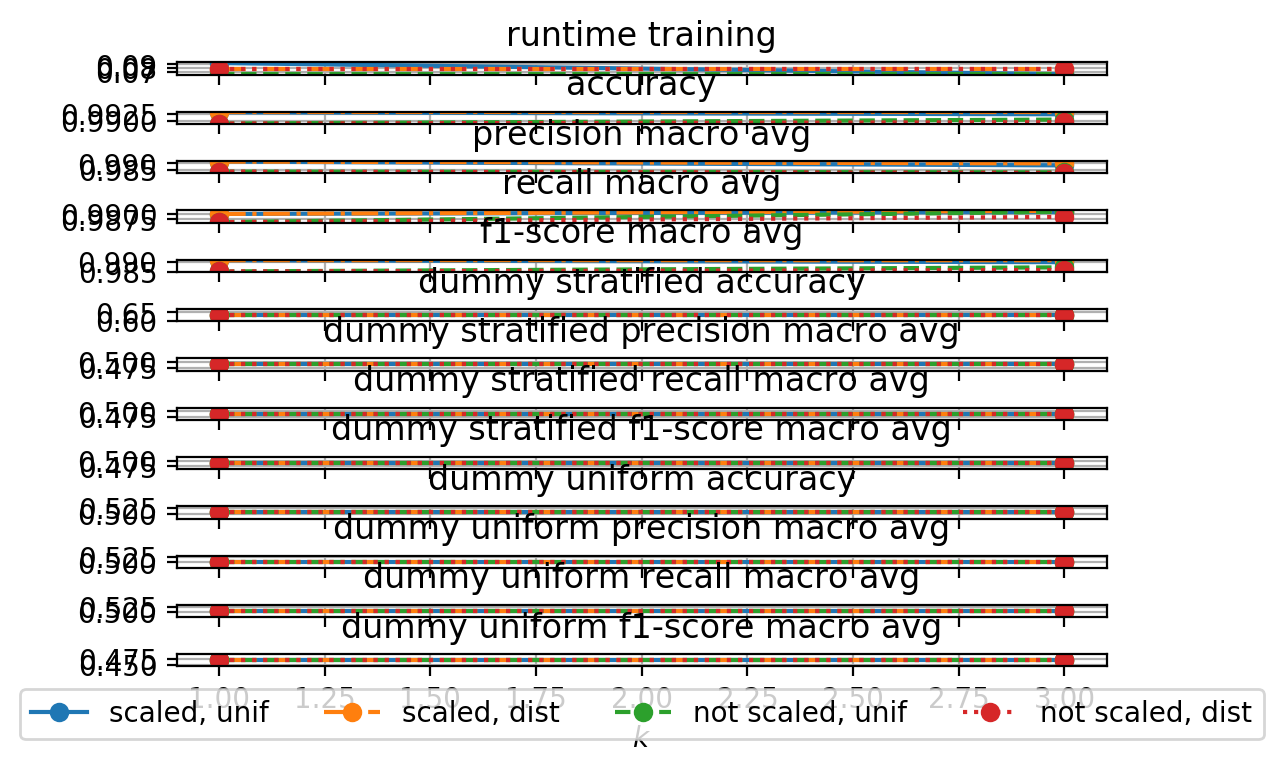
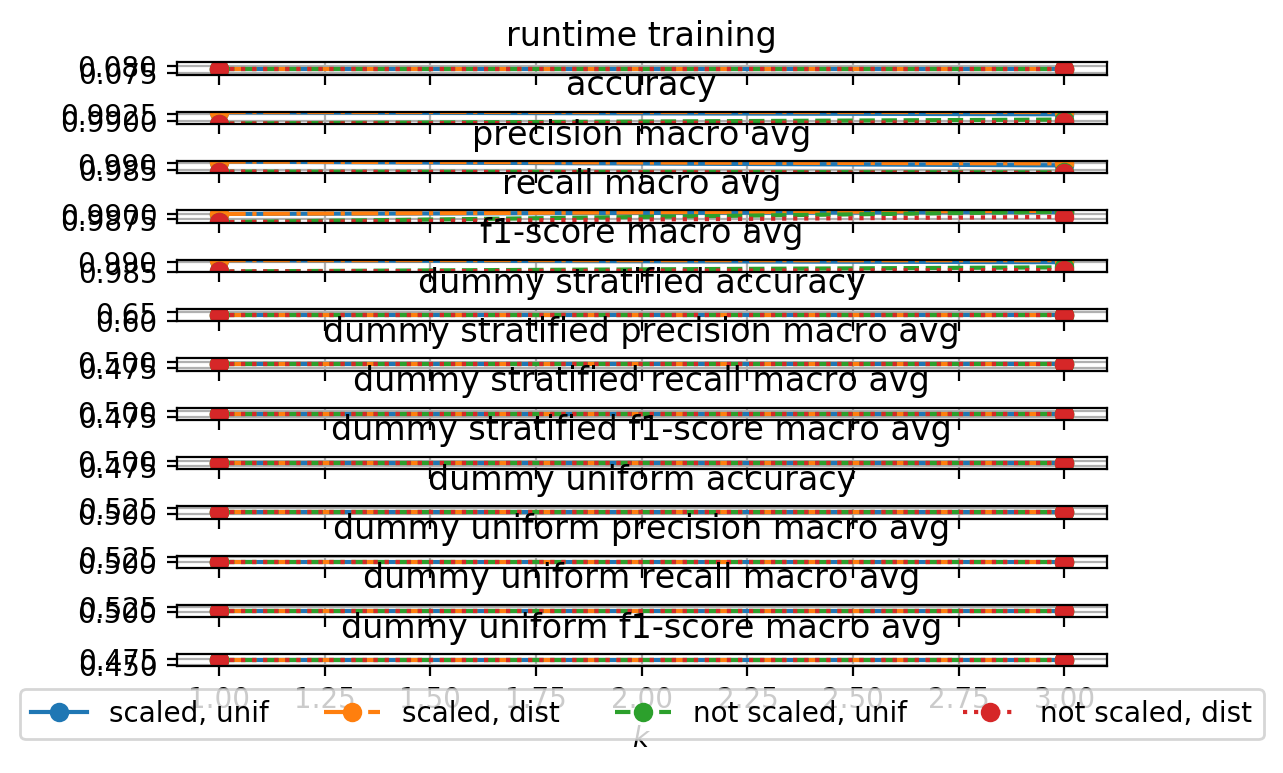
backup status quo: - check_performance vervollständigt

Changed region(s): [[0.0624, 0.0621, 0.873, 0.1242]]

diff --git a/Exercise 2/functions.py b/Exercise 2/functions.py
@@ -35,35 +35,6 @@ import seaborn as sns
 from time import process_time
 
 
-# def mean_absolute_percentage_error(y_true, y_pred):
-#     y_true, y_pred = np.array(y_true), np.array(y_pred)
-#     return np.mean(np.abs((y_true - y_pred) / y_true) * 100)
-
-
-
-def add_significance_tests(df:pd.DataFrame, X_train:np.array, y_train:np.array,
-    X_test:np.array, y_test:np.array, strategies:list=['stratified', 'uniform']):
-
-    # Significance test against baselines
-    for strategy in strategies:
-        dummy_clf = DummyClassifier(strategy=strategy,
-            random_state=1)
-        dummy_clf.fit(X_train, y_train)
-        y_pred = dummy_clf.predict(X_test)
-        dummy_metrics = functions.check_performance(y_test,
-            y_pred, filename=None)
-        # print(dummy_metrics)    
-
-        for score, average in dummy_metrics.index.values:
-            key = ' '.join([score, average, 'dummy', strategy]).replace('  ',
-                ' ')
-            if key not in df:
-                df[key] = np.nan
-            df[key] = dummy_metrics[score, average]
-
-    return df
-
-
 def check_performance(y_test: np.array, y_pred: np.array,
                       filename=None):
     # # Line plot
@@ -97,8 +68,6 @@ def check_performance(y_test: np.array, y_pred: np.array,
     dict_report = classification_report(y_test, y_pred, output_dict=True)
     binary_classification = ('accuracy' in dict_report.keys())
     
-
-
     # Generate columns for result
     if binary_classification:  # Micro average (averaging the total true positives, false negatives and false positives) is only shown for multi-label or multi-class with a subset of classes, because it corresponds to accuracy otherwise.
         index = pd.MultiIndex.from_arrays(
@@ -123,21 +92,89 @@ def check_performance(y_test: np.array, y_pred: np.array,
         else: 
             result.loc[index[idx]]['value'] = dict_report[average][score]
 
-    # print('Mean Absolute Error (MAE): {:.2f}'.format(MAE))
-    # print('Mean Absolute Percentage Error (MAPE): {:.2f}'.format(MAPE))
-    # print('Mean Squared Error (MSE): {:.2f}'.format(MSE))
-    # print('Root Mean Squared Error (RMSE): {:.2f}'.format(RMSE))
-    # print('Explained Variance (EV): {:.2f}'.format(EV))
-    # print()
+    print(result+'\n')
 
-    # if filename is not None:
-    #     f = open(filename + '.txt', 'w')
-    #     f.write(f'Mean Absolute Error (MAE): {MAE:.2f}\n')
-    #     f.write(f'Mean Absolute Percentage Error (MAPE): {MAPE:.2f}\n')
-    #     f.write(f'Mean Squared Error (MSE): {MSE:.2f}\n')
-    #     f.write(f'Root Mean Squared Error (RMSE): {RMSE:.2f}\n')
-    #     f.write(f'Explained Variance (EV): {EV:.2f}\n')
-    #     f.close()
+    if filename is not None:
+        f = open(filename + '.txt', 'w')
+        for idx, (score, average) in enumerate(index_elements):
+            if score == 'accuracy':
+                result.loc[index[idx]]['value'] = dict_report[score]
+            else: 
+                result.loc[index[idx]]['value'] = dict_report[average][score]
+            f.write(index[idx]+f": {result.loc[index[idx]]['value']:.2f}\n")
+        f.close()
+
+    return result
+
+
+def check_performance_CV(y_test: np.array, y_pred: np.array,
+                      filename=None):
+    # # Line plot
+    # plt.figure()
+    # plt.plot(y_test, label=r'$y$')
+    # plt.plot(y_pred, label=r'$\hat y$')
+    # plt.grid()
+    # plt.legend()
+    # if filename is None:
+    #     plt.show()
+    # else:
+    #     plt.tight_layout()
+    #     plt.savefig(filename + ".png", format='png')
+    #     plt.close()
+
+    # # Scatter plot
+    # plt.figure()
+    # plt.scatter(y_test, y_test, label=r'$y$', alpha=0.6)
+    # plt.scatter(y_test, y_pred, label=r'$\hat y$', alpha=0.6)
+    # plt.grid()
+    # plt.legend()
+    # if filename is None:
+    #     plt.show()
+    # else:
+    #     plt.tight_layout()
+    #     plt.savefig(filename + "_scatter.png", format='png')
+    #     plt.close()
+
+
+    # Evaluation metrics
+    dict_report = classification_report(y_test, y_pred, output_dict=True)
+    binary_classification = ('accuracy' in dict_report.keys())
+    
+    # Generate columns for result
+    if binary_classification:  # Micro average (averaging the total true positives, false negatives and false positives) is only shown for multi-label or multi-class with a subset of classes, because it corresponds to accuracy otherwise.
+        index = pd.MultiIndex.from_arrays(
+            [['accuracy', 'precision', 'recall', 'f1-score'],
+                ['', 'macro avg', 'macro avg', 'macro avg']],
+            names=('score', 'average')) 
+        scores = ['accuracy', 'precision', 'recall', 'f1-score']
+        averages = ['', 'macro avg', 'macro avg', 'macro avg']
+        index_elements = list(zip(scores, averages))
+    else:
+        scores = ['precision', 'recall', 'f1-score']
+        averages = ['micro avg', 'macro avg']
+        index_elements = list(product(scores, averages))
+        
+    index = [' '.join([score, average]).strip() for score, average in index_elements]
+    result = pd.DataFrame(index=index, columns=['value'])
+
+    # Pick results from report
+    for idx, (score, average) in enumerate(index_elements):
+        if score == 'accuracy':
+            result.loc[index[idx]]['value'] = dict_report[score]
+        else: 
+            result.loc[index[idx]]['value'] = dict_report[average][score]
+
+    print(result+'\n')
+
+    if filename is not None:
+        f = open(filename + '.txt', 'w')
+        for idx, (score, average) in enumerate(index_elements):
+            if score == 'accuracy':
+                result.loc[index[idx]]['value'] = dict_report[score]
+            else: 
+                result.loc[index[idx]]['value'] = dict_report[average][score]
+            f.write(index[idx]+f": {result.loc[index[idx]]['value']:.2f}\n")
+        f.close()
 
     return result
 
@@ -234,36 +271,40 @@ def knn(X_train: np.array, X_test: np.array, y_train: np.array,
 
                 for split in splits:
                     knn = KNeighborsClassifier(n_neighbors=k,
-                                                weights=weight,
-                                                algorithm='auto',  # 'ball_tree', 'kd_tree', 'brute'
-                                                leaf_size=30,  # default=30
-                                                n_jobs=-1)
+                        weights=weight,
+                        algorithm='auto',  # 'ball_tree', 'kd_tree', 'brute'
+                        leaf_size=30,  # default=30
+                        n_jobs=-1)
                     tic = process_time()
                     if split == 'holdout':
                         knn.fit(xtrain, y_train)
-
-                    # TODO
                     elif split == 'cross-validation':
-                        knn = KNeighborsClassifier(n_neighbors=k,
-                            weights=weight)
-
-                        stophere
-                        scoring = ['accuracy', 'precision_macro',
-                                    'recall_macro']
+                        # TODO: Trainieren auf beste accuracy mit k-fold
+                        # How to? --> So geht das nicht, da die Parameter ja
+                        # bereits feststehen
                         scores = cross_validate(knn, xtrain, y_train, cv=5,
                                                 scoring=scoring, n_jobs=-1)  # n_jobs=-1 ... use all CPUs
 
-                    runtime = process_time()-tic
+
+                    runtime_training = process_time()-tic
                     if 'runtime training' not in evaluation:
                             evaluation['runtime training'] = np.nan
                     evaluation.loc[k, s, weight, split][
-                        'runtime training'] = runtime
+                        'runtime training'] = runtime_training
 
+                    tic = process_time()
                     y_pred_knn = knn.predict(xtest)
+                    runtime_prediction = process_time()-tic
+
+                    if 'runtime prediction' not in evaluation:
+                            evaluation['runtime prediction'] = np.nan
+                    evaluation.loc[k, s, weight, split][
+                        'runtime prediction'] = runtime_prediction
 
                     # to be integrated in check_performance?
                     # plot_confusion_matrix(knn, xtest, y_test, normalize='all')
                     # plt.show()
+
 
                     performance = (
                         check_performance(y_test, y_pred_knn,
